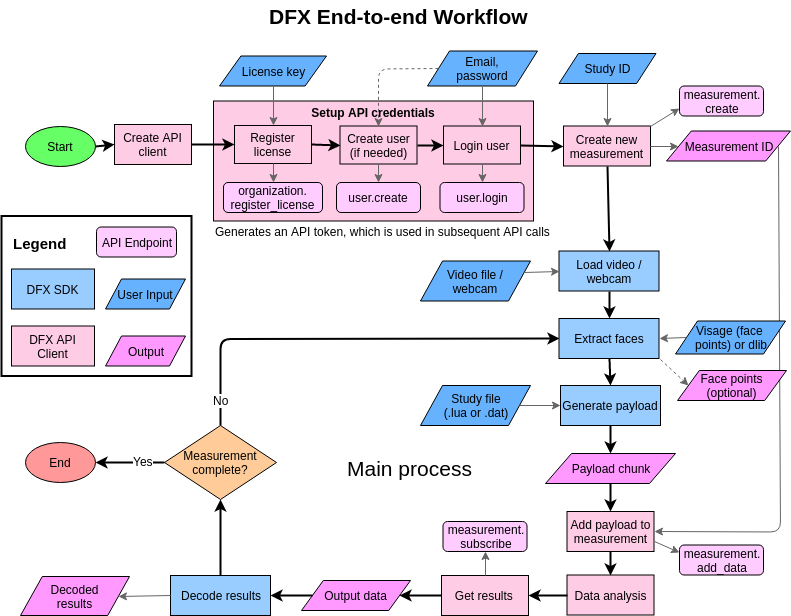
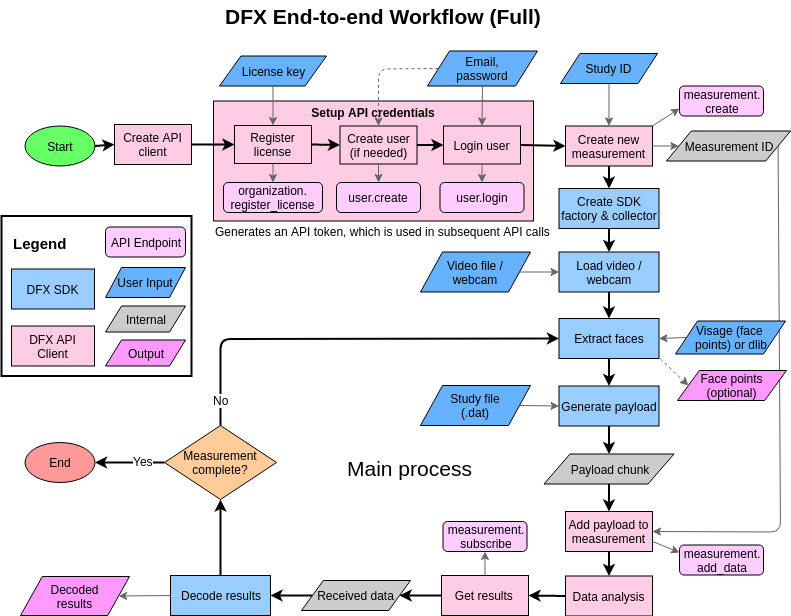
Some fixes to documentation

diff --git a/dfxexample.md b/dfxexample.md
@@ -2,7 +2,7 @@
 
 This document explains the code in `dfxexample.py`, which is an implementation of the DFX end-to-end workflow, using REST and websockets.
 
-## Overview of Workflow
+## Overview
 
 This workflow is illustrated in the flowchart below:
 
@@ -12,10 +12,9 @@ The process starts by creating a DFX API client object (`dfxapiclient.SimpleClie
 
 Next, a new measurement is created under the study given by the `study_id`, by calling the API endpoint `measurement.create`. This generates a `measurement_id`, which is handled internally by the DFX API client object.
 
-A video source is loaded (either a video file or webcam input) into the SDK, which then reads its frames and extracts the faces. A payload is generated from the study file (`.lua` or `.dat` format), and payload chunks are generated from the video source. 
+A video source is loaded (either a video file or webcam input) into the SDK, which then reads its frames and extracts the faces. A payload is generated from the study file configuration, and payload chunks are generated from the video source.
 
 The payload chunks are then added to the measurement by calling the `measurement.add_data` API endpoint. The data is analyzed, and then retrieved by calling the `measurement.subscribe_to_results` endpoint. The output is decoded by the SDK. The cycle would continue until the measurement is complete.
-
 
 ## Code Explanation
 
@@ -44,10 +43,9 @@ Before you move onto the actual code, make sure you have a good understanding of
 
 Also, it would be helpful to look up the documentations for the DFX API client and DFX SDK before you read this, as it will help you understand the use cases.
 
-
 ### Helper Functions
 
-**1. `main`**
+#### `main`
 
 ```python
 async main(args:argparse.Namespace)
@@ -83,8 +81,7 @@ await extractor.doExtraction(imageSrcPath=args.imageSrc,
                              save_faces=args.save_facepoints)
 ```
 
-
-**2. `_setup_apiclient`**
+#### `_setup_apiclient`
 
 ```python
 async _setup_apiclient(license_key:str,
@@ -116,10 +113,9 @@ client.create_new_measurement()
 return client
 ```
 
-
 ### `DfxExtractor`
 
-**1. Constructor**
+#### Constructor
 
 The constructor creates a `libdfx.Factory` object to facilitate data collection. It also defines an empty collector object and two queues (`asyncio.Queue`) for reading frames and storing chunks.
 
@@ -142,13 +138,14 @@ def __init__(self):
     self._chunkQueue = asyncio.Queue(5)
 ```
 
+#### `create`
 
-**2. `create`**
 ```python
 @classmethod
 async create(cls)
 ```
-This method provides an alternative way of creating a `DfxExtractor` object. It is needed to ensure that async objects are all created in the same async loop. 
+
+This method provides an alternative way of creating a `DfxExtractor` object. It is needed to ensure that async objects are all created in the same async loop.
 
 ```python
 @classmethod
@@ -157,12 +154,12 @@ async def create(cls):
     return self
 ```
 
-
-**3. `_readFrames`**
+#### `_readFrames`
 
 ```python
 async _readFrames(self, videoCapture:cv2.VideoCapture, rotation:int, mirror:boolean, targetFPS:int)
 ```
+
 This function calls a method `readFrame` from `utils` to get a frame from the video, which then gets put into the queue `self._readerQueue` to wait to be processed. Once the video ends, indicated by the flag `self._cancel`, the value `None` is put in the queue instead to indicate the end. The `read` flag tells the program if this chunk needs to be processed. For the last chunk, it is marked as `False`.
 
 ```python
@@ -172,11 +169,12 @@ while not self._cancel:
 await self._readerQueue.put((False, None))
 ```
 
+#### `_processChunks`
 
-**4. `_processChunks`**
 ```python
 async _processChunks(self, outputFolder:str)
 ```
+
 This is a method for processing every payload chunk. It first retrieves a chunk from the queue `self._chunkQueue`. If the queue is already empty, this method ends.
 
 ```python
@@ -186,6 +184,7 @@ while True:
     if chunk is None:
         break
 ```
+
 It then updates the printout message, saves the payload files if needed (as indicated by `outputFolder`), and sends the payload to the API by calling the method `dfxapiclient.add_chunk`, where `dfxapiclient` is a `dfxapiclient.SimpleClient` object. Finally, the queue `self._chunkQueue` is marked as complete by calling `task_done()`.
 
 ```python
@@ -207,12 +206,12 @@ It then updates the printout message, saves the payload files if needed (as indi
 self._chunkQueue.task_done()
 ```
 
-
-**5. `_getChunk`**
+#### `_getChunk`
 
 ```python
 async _getChunk(self, collector:libdfx.Collector)
 ```
+
 This function retrieves a chunk from the collector (`dfxFactory.Collector`) object, by calling the method `getChunkData()`. The payload is then retrieved by calling the method `.getChunkPayload()`. It is then put in a queue `self._chunkQueue` for processing chunks.
 
 ```python
@@ -225,12 +224,13 @@ else:
     print("Got empty chunk")
 ```
 
+#### `initialize`
 
-**6. `initialize`**
 ```python
 async initialize(self, studyCfgPath:str, dfxclient:dfxapiclient.SimpleClient)
 ```
-This method initializes the DFX extractor by setting up the study, collector, and DFX API client. The study is initialized from the `.lua` or `.dat` file provided by `studyCfgPath`. The collector is set by calling `dfxFactory.createCollector()`.
+
+This method initializes the DFX extractor by setting up the study, collector, and DFX API client. The study is initialized from a `.dat` file provided by `studyCfgPath`. The collector is set by calling `dfxFactory.createCollector()`.
 
 ```python
 # Initialize a study
@@ -252,7 +252,8 @@ print("Created collector")
 self.dfxapiclient = dfxclient
 ```
 
-**7. `doExtraction`**
+#### `doExtraction`
+
 ```python
 async doExtraction(self,
                    imageSrcPath,
@@ -265,7 +266,8 @@ async doExtraction(self,
                    event_loop=None,
                    save_faces=False)
 ```
-This is the main method that performs the video extraction process. 
+
+This is the main method that performs the video extraction process.
 
 It first creates the json object (dictionary) for saving facepoints. Then it loads the saved face tracking data if it was specified, otherwise it creates a facetracker (`dlib.DlibTracker`) object. It then checks if the camera / webcam is used (camera is usually given as a number as opposed to a string for a video file).
 
@@ -361,7 +363,7 @@ if outputPath is not None and not os.path.exists(outputPath):
 self._cancel = False
 ```
 
-Now, several processes are added into the asynchronous event loop: reading frames, processing chunks (add data and save), subscribe to results, and decode results. The asynchronous io will handle these processes internally, and will run them to completion. The utilization of queues ensure that data can be passed in between the processes asynchronously. 
+Now, several processes are added into the asynchronous event loop: reading frames, processing chunks (add data and save), subscribe to results, and decode results. The asynchronous io will handle these processes internally, and will run them to completion. The utilization of queues ensure that data can be passed in between the processes asynchronously.
 
 ```python
 # Read video frames
@@ -390,7 +392,7 @@ frameNumber = 0
 success = False
 ```
 
-This begins the main loop. Each iteration takes one camera / video frame and processes it. The loop continues until the measurement is complete, as signalled by the `read` flag. 
+This begins the main loop. Each iteration takes one camera / video frame and processes it. The loop continues until the measurement is complete, as signalled by the `read` flag.
 
 ```python
 while True:
@@ -439,7 +441,7 @@ Otherwise, if the pre-tracked facepoints are provided for this video, it just ad
             # Store facepoints for saving if needed
             if save_faces:
                 facepoints["frames"][frameNumber] = jsonFace
-            
+
             face = createDFXFace(self._collector, jsonFace)
             frame.addFace(face)
     else:
@@ -468,7 +470,7 @@ A marker is added to the 1000th frame. The extraction process is done by first d
             break
 ```
 
-Here, the image (with the facetracker) is rendered in a window. The frame number, status, as well as the measurement results are also displayed. 
+Here, the image (with the facetracker) is rendered in a window. The frame number, status, as well as the measurement results are also displayed.
 
 ```python
     # Rendering
@@ -549,12 +551,13 @@ await self.dfxapiclient.shutdown()
 self.dfxapiclient.clear()   # Clear cache
 ```
 
+#### `decode_results`
 
-**8. `decode_results`**
 ```python
 async decode_results(self)
 ```
-This method decodes all the results received from the server, in a polling format. Until the program stops, it continuously checks if the queue `self.dfxapiclient.received_data` has content, and if so, it retrieves a chunk of data from the queue. 
+
+This method decodes all the results received from the server, in a polling format. Until the program stops, it continuously checks if the queue `self.dfxapiclient.received_data` has content, and if so, it retrieves a chunk of data from the queue.
 
 Then, it calls the SDK method `collector.decodeMeasurementResult()` to get the decoded results. The result is a custom object that needs to be processed further.
 
@@ -571,7 +574,7 @@ while not self._complete:
         chunk_result = {}   # For storing chunk result
 ```
 
-It then checks if the decoded results contain keys of measurement parameters. If so, for each parameter (key), the raw data is obtained in a `list` format by calling `decoded_data.getMeasurementData(key).getData()`. For display purposes, the mean of each set of raw data is computed. 
+It then checks if the decoded results contain keys of measurement parameters. If so, for each parameter (key), the raw data is obtained in a `list` format by calling `decoded_data.getMeasurementData(key).getData()`. For display purposes, the mean of each set of raw data is computed.
 
 Finally, the queue must be marked as complete by calling `.task_done()`. If the queue is empty, this method will continue polling.
 
@@ -599,12 +602,11 @@ Finally, the queue must be marked as complete by calling `.task_done()`. If the 
 
         # Mark queue as complete
         self.dfxapiclient.received_data.task_done()
-    
+
     # If queue is empty, continue polling
     else:
         await asyncio.sleep(self._signal)      # Polling
 ```
-
 
 ### Call to Main
 

diff --git a/README.md b/README.md
@@ -7,27 +7,37 @@ This end-to-end demo includes the following steps:
 * Setting up a DFX API SimpleClient (which handles register license, create and log in user)
 * Creating a new measurement
 * Extracting face data from a video file or webcam input
-* Generating payload chunks from a study file (`.lua` or `.dat` format)
+* Generating payload chunks from a study file
 * Sending payload chunks to API server
 * Subscribing to results and receiving measurement results from the API server
 * Decoding results and displaying them
 * Optional: Saving the payloads and results
 * Optional: Saving the visage facepoints of the input video
 
-This document outlines how to set up and use the dfx end-to-end demo. To see a detailed documentation of the code, please read [dfxexample.md](./dfxexample.md).
+This document outlines how to set up and use the dfx end-to-end demo.
+
+The basic workflow is illustrated:
+
+![workflow](simple-workflow.png)
+
+For more details, please read [dfxexample.md](./dfxexample.md).
 
 ## Setup Requirements
 
-Python 3.6 or above and Git are is required.
+Python 3.6 or above is required.
 
 ### Windows
 
 * Install the latest [64-bit version of Python](https://www.python.org/downloads/windows/).
-* Install [Git](https://git-scm.com/downloads).
+* Install [Git](https://git-scm.com/downloads)
+* Install [CMake](https://cmake.org/)
+* Install [Visual Studio (or Visual Studio C++ build tools)](https://visualstudio.microsoft.com/downloads/)
+
+Please ensure that Python and CMake are added to `PATH`.
 
 ### Ubuntu
 
-You need to ensure you have Python 3.6, it's development headers and `venv` installed. On Ubuntu 18.04:
+You need to ensure you have at least Python 3.6, it's development headers and `venv` installed. On Ubuntu 18.04:
 
 ```bash
 sudo apt-get install python3.6 python3.6-venv python3.6-dev
@@ -52,7 +62,7 @@ sudo apt-get install build-essential cmake libopenblas-dev liblapack-dev  # Need
 
 1. Make sure you have all dependencies above set up.
 
-2. Create a new Python 3.6 virtual environment and activate it.
+2. Create a new Python virtual environment and activate it.
 
     ```bash
     # On Ubuntu
@@ -70,7 +80,7 @@ sudo apt-get install build-essential cmake libopenblas-dev liblapack-dev  # Need
 
    ```bash
     pip install asyncio opencv-python
-    pip install dlib  # This may take a long time to finish on Ubuntu
+    pip install dlib  # This may take a long time to finish
     ```
 
     *Note: On Ubuntu 16.04, installing `dlib` in an existing Python virtual environment that was created before Python 3.6 was installed will create dependency issues due to conflicts between `python3-dev` and `python3.6-dev`.*
